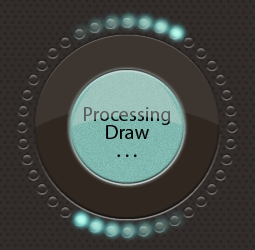
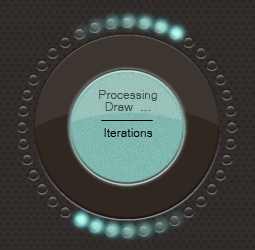
added iteration display in progress window

Changed region(s): [[0.2745, 0.336, 0.7137, 0.56], [0.4941, 0.616, 0.549, 0.644], [0.4392, 0.616, 0.4667, 0.644]]

diff --git a/gui/widgets.py b/gui/widgets.py
@@ -35,6 +35,8 @@ if ROOT_DIR not in sys.path:
 
 from gui import *
 
+TEST_IMG = r'c:\users\alok.gandhi\desktop\test.png'
+
 class ProgressWidget(QtGui.QDialog):
     def __init__(self, *args, **kwargs):
         super(ProgressWidget, self).__init__(*args, **kwargs)
@@ -46,20 +48,31 @@ class ProgressWidget(QtGui.QDialog):
         self.pic = QtGui.QLabel(self)
         self.pic.setFixedSize(255, 250)
         self. pic.setPixmap(QtGui.QPixmap(os.path.abspath(os.path.join(ROOT_DIR, 'icons', 'pbar', '1.png'))))
+        #self. pic.setPixmap(QtGui.QPixmap(TEST_IMG))
         self.setFixedSize(255, 250)
+
+        self.lcd = QtGui.QLCDNumber(self)
+        self.lcd.setDigitCount(6)
+        self.lcd.display('000000')
+        self.lcd.move(92, 147)
+        self.lcd.setSegmentStyle(QtGui.QLCDNumber.Flat)
+        self.lcd.setFrameStyle(QtGui.QFrame.NoFrame)
+
         self.setWindowTitle('Generating Draw')
 
     def _update(self, iter):
-        iter = ((iter/ 100)%20) + 1
-        self. pic.setPixmap(QtGui.QPixmap(os.path.abspath(os.path.join(ROOT_DIR, 'icons', 'pbar', '%s.png' % iter))))
+        self.lcd.display('%s' % str(iter).zfill(6))
+
+        imgNumber = ((iter/ 100)%20) + 1
+        self. pic.setPixmap(QtGui.QPixmap(os.path.abspath(os.path.join(ROOT_DIR, 'icons', 'pbar', '%s.png' % imgNumber))))
 
     def closeWindow(self):
         self._closedByProcess = True
         self.close()
-
-    def closeEvent(self, event):
-        if not self._closedByProcess:
-            event.ignore()
+    #
+    #def closeEvent(self, event):
+    #    if not self._closedByProcess:
+    #        event.ignore()
 
 class AboutWidget(QtGui.QDialog):
     def __init__(self, *args, **kwargs):
@@ -788,3 +801,10 @@ class MainWidgetUI(QtGui.QWidget):
 
         self._mainLayout = QtGui.QVBoxLayout(self)
         self._mainLayout.addLayout(self._grid)
+
+if __name__ == '__main__':
+    app = QtGui.QApplication(sys.argv)
+    pw = ProgressWidget()
+    pw.show()
+    pw.raise_()
+    app.exec_()
